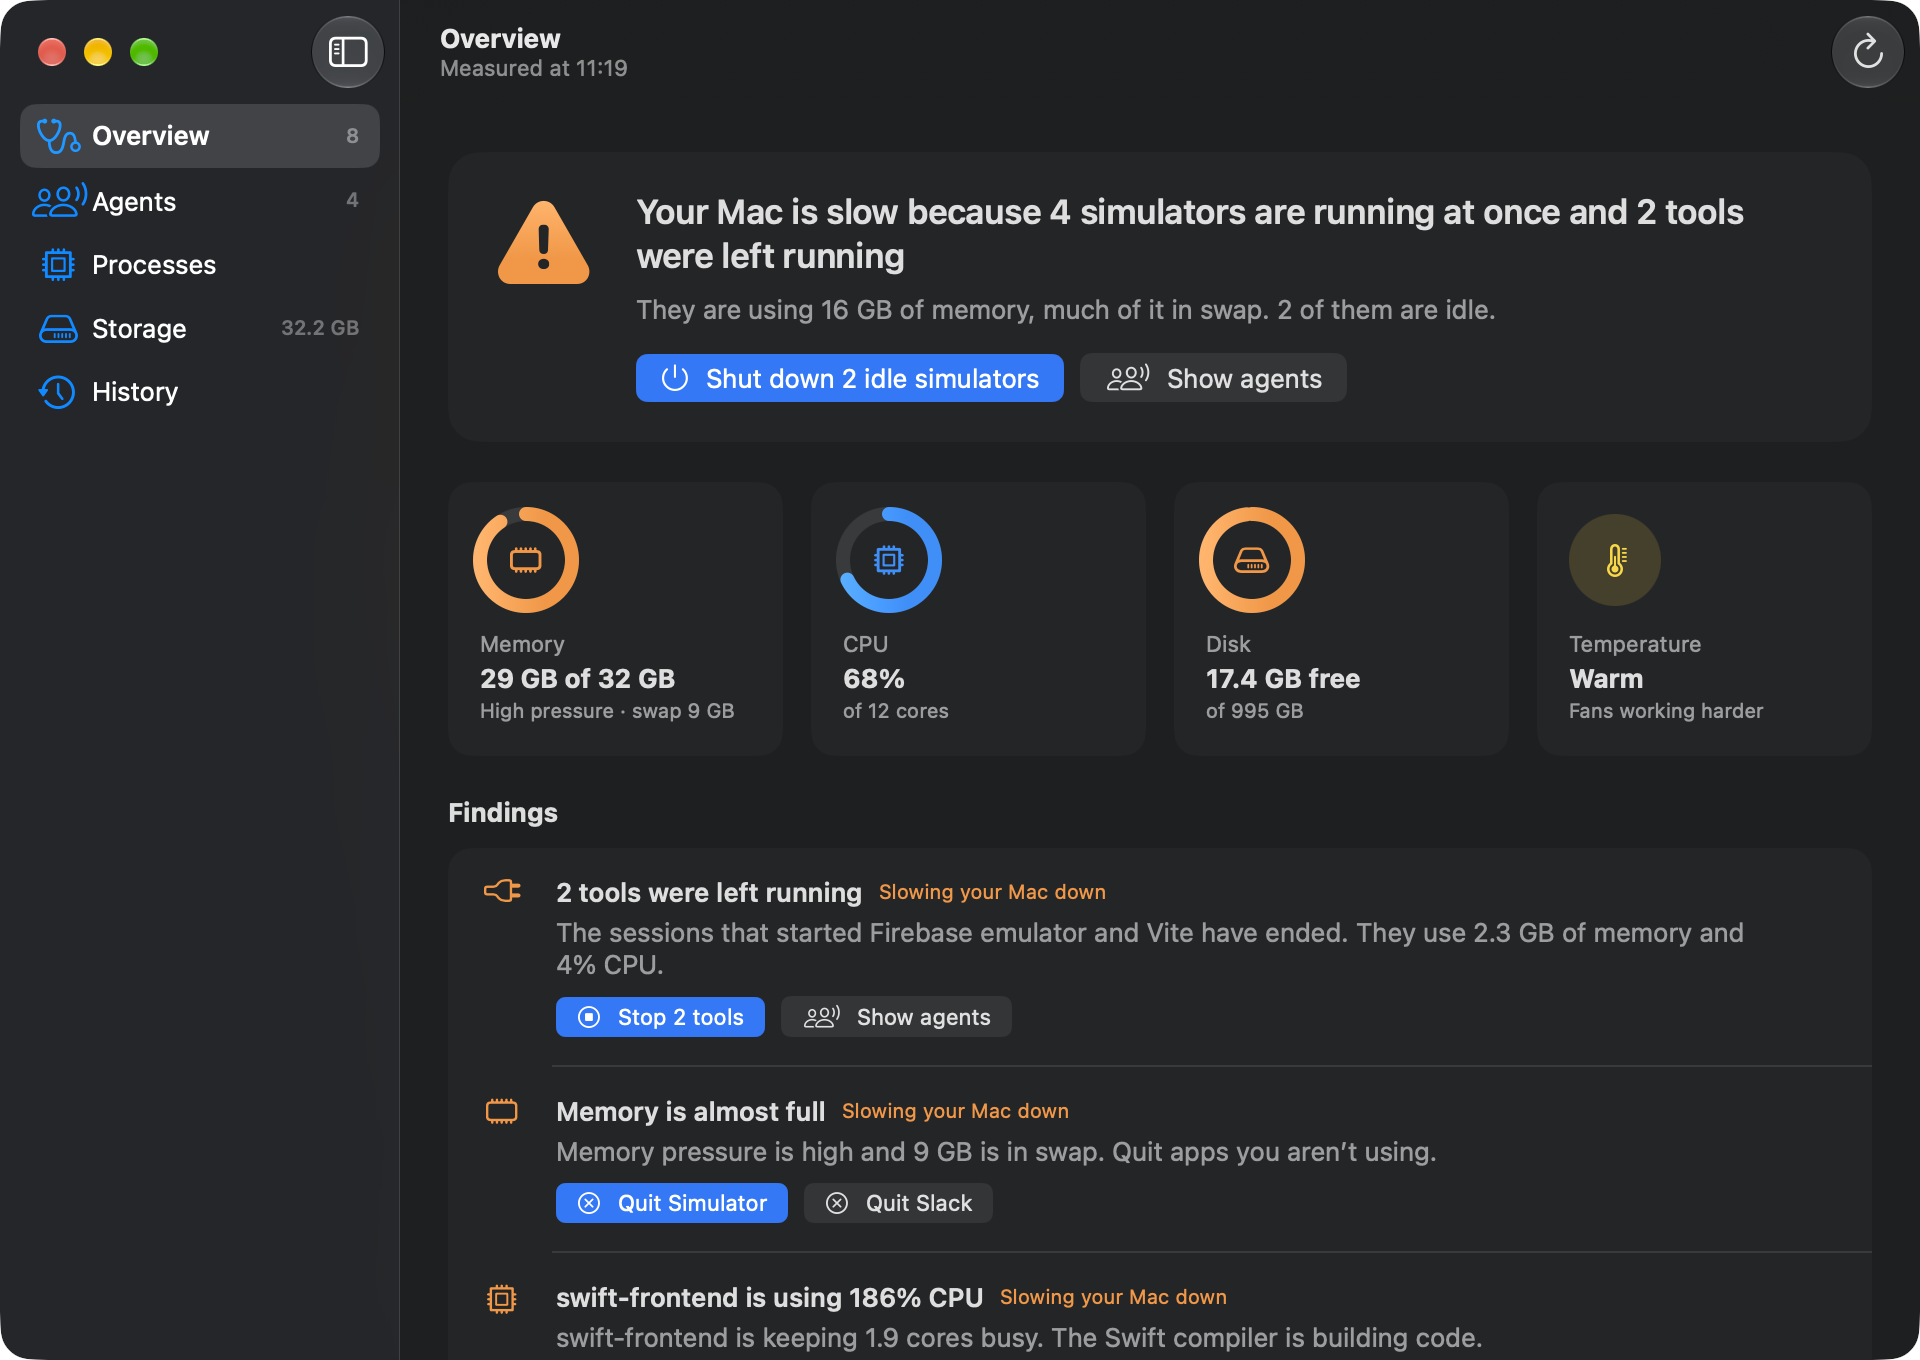
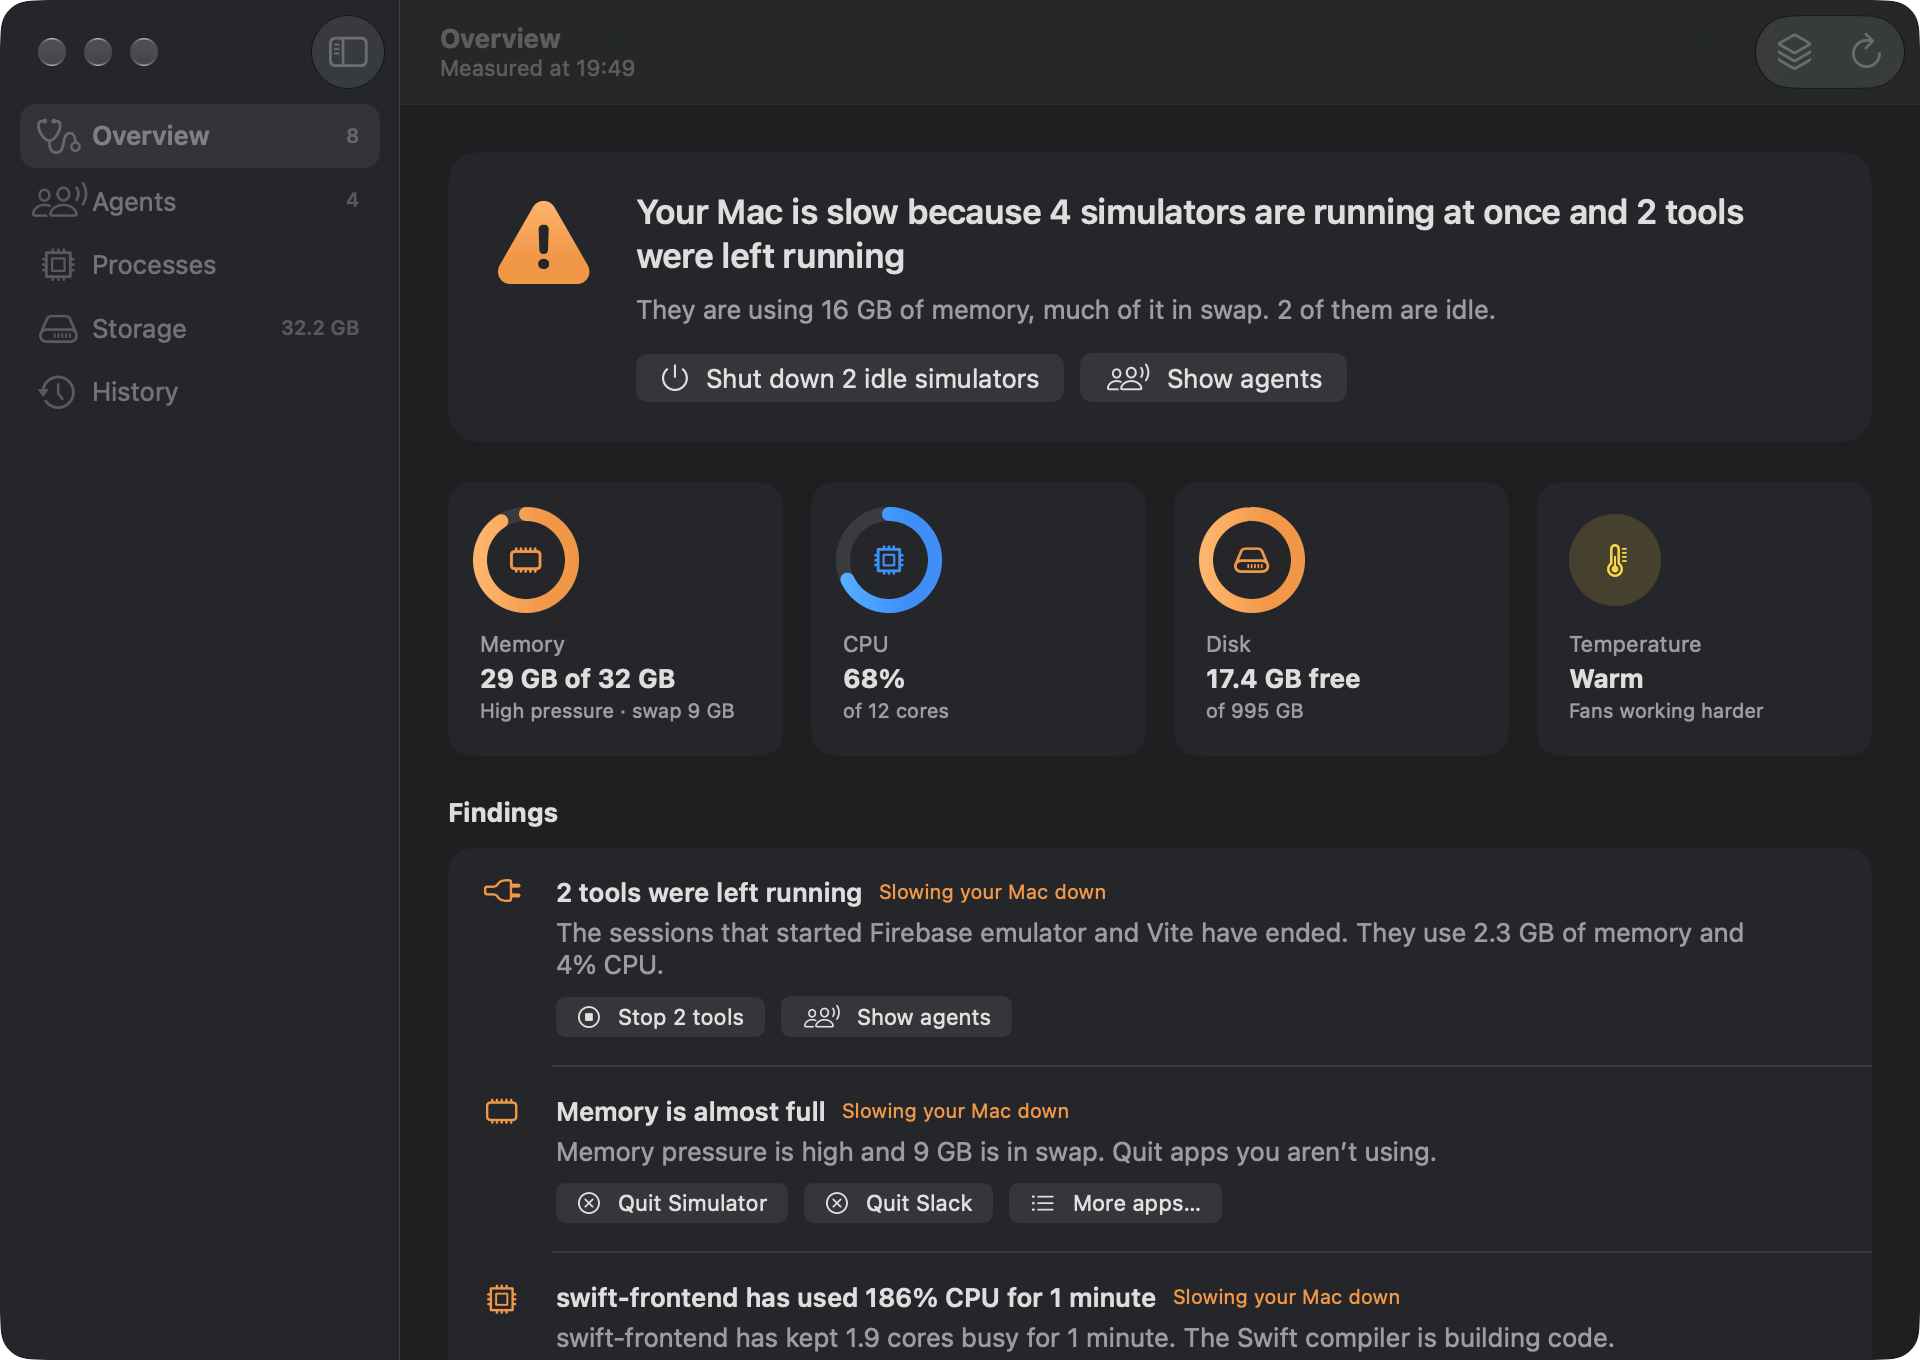
New screenshots, including the apps list
- docs/screenshots show the plunger in the menu bar, the Apps button and the new apps
  list, in dark and light mode.
- scripts/screenshots.sh quits only the demo copies it starts, so a MacUnclog that is
  already running stays open.

diff --git a/scripts/window-id.swift b/scripts/window-id.swift
@@ -1,10 +1,17 @@
 import CoreGraphics
 import Foundation
 
-// Prints "<id> <width>x<height> <title>" for every on-screen window owned by the named app.
-let owner = CommandLine.arguments.dropFirst().first ?? "MacUnclog"
+// Prints "<id> <width>x<height> layer=<n> <title>" for every on-screen window owned by an
+// app, given by name ("MacUnclog") or by process ID ("4242").
+let target = CommandLine.arguments.dropFirst().first ?? "MacUnclog"
+let pid = Int32(target)
 let windows = CGWindowListCopyWindowInfo([.optionOnScreenOnly, .excludeDesktopElements], kCGNullWindowID) as? [[String: Any]] ?? []
-for window in windows where window[kCGWindowOwnerName as String] as? String == owner {
+for window in windows {
+    if let pid {
+        guard window[kCGWindowOwnerPID as String] as? Int32 == pid else { continue }
+    } else {
+        guard window[kCGWindowOwnerName as String] as? String == target else { continue }
+    }
     let id = window[kCGWindowNumber as String] as? Int ?? 0
     let bounds = window[kCGWindowBounds as String] as? [String: Double] ?? [:]
     let title = window[kCGWindowName as String] as? String ?? ""

diff --git a/README.md b/README.md
@@ -25,6 +25,8 @@ It lives in a window and in the menu bar, and adds a "Why is my Mac slow?" actio
 
 ![Agents](docs/screenshots/agents.png)
 
+![Apps using memory, with Quit, Restart and Tabs](docs/screenshots/apps-light.png)
+
 <p align="center"><img src="docs/screenshots/menubar.png" width="300" alt="The menu bar panel"></p>
 
 ## What each cleanup removes
